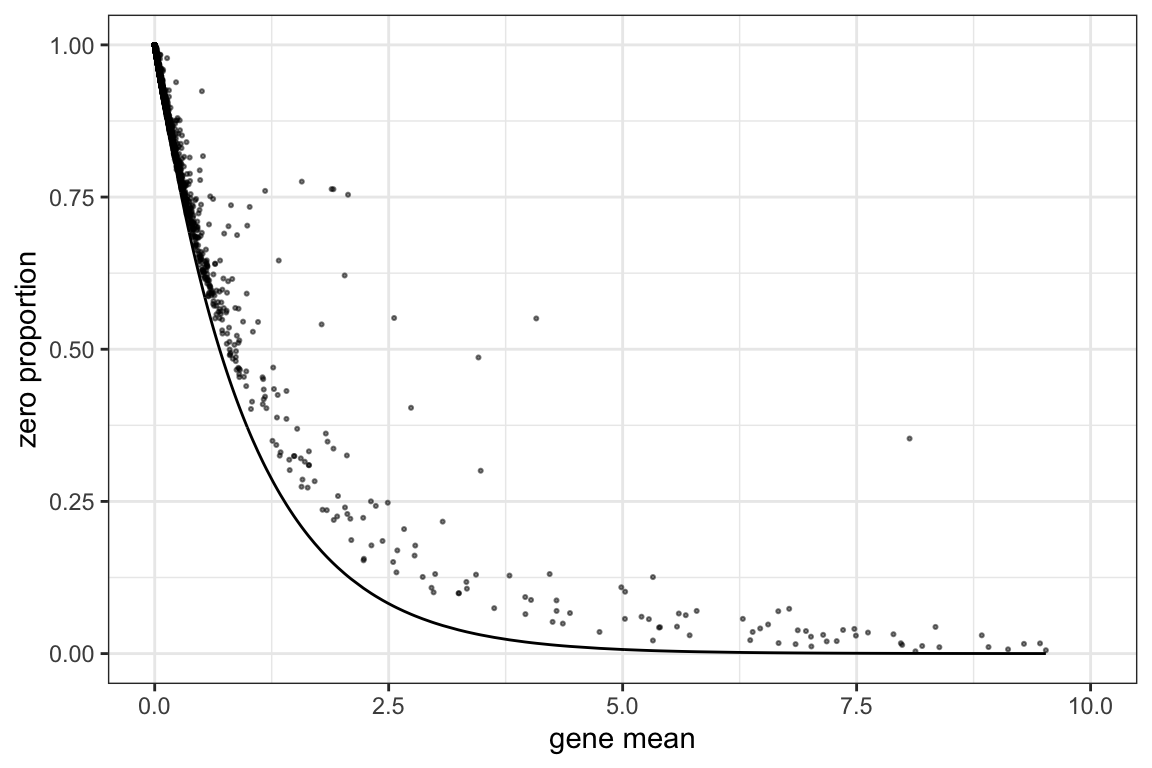
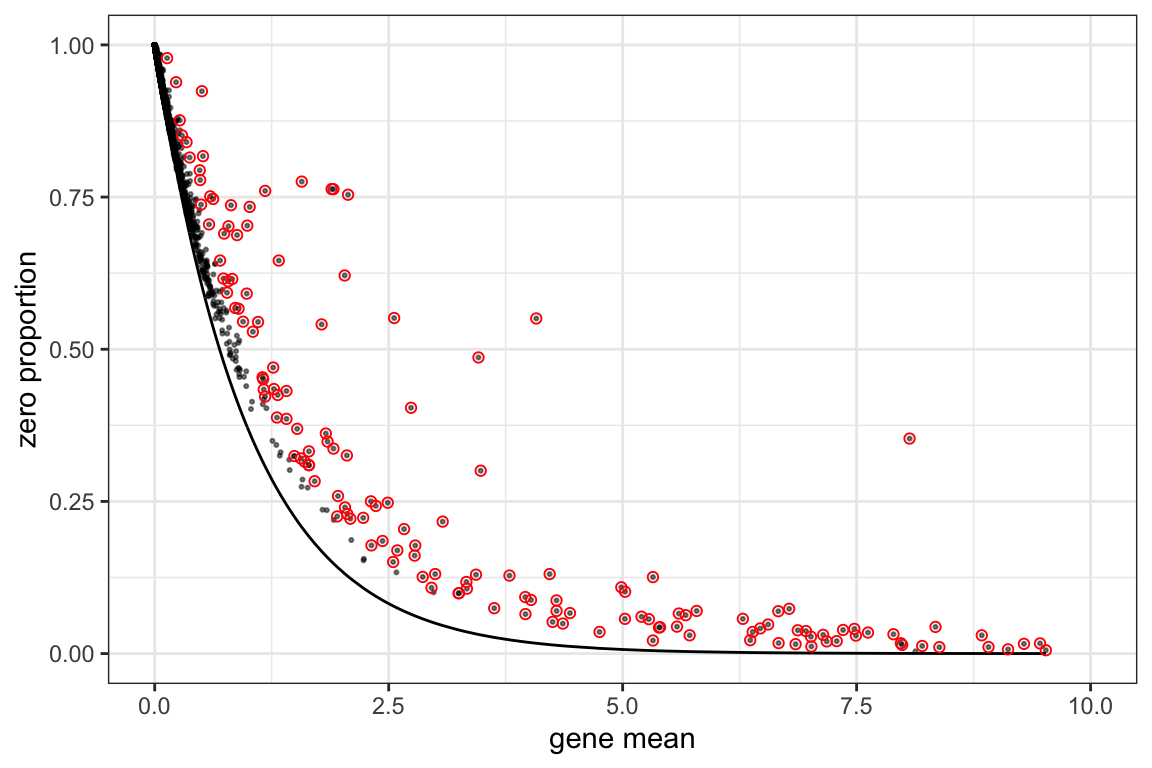
Build site.

diff --git a/docs/example.html b/docs/example.html
@@ -327,7 +327,7 @@ div.section {
 <div class="tab-content">
 <div id="summary" class="tab-pane fade in active">
 <p>
-<strong>Last updated:</strong> 2020-01-22
+<strong>Last updated:</strong> 2020-01-23
 </p>
 <p>
 <strong>Checks:</strong> <span class="glyphicon glyphicon-ok text-success" aria-hidden="true"></span> 7 <span class="glyphicon glyphicon-exclamation-sign text-danger" aria-hidden="true"></span> 0
@@ -418,10 +418,10 @@ This reproducible <a href="http://rmarkdown.rstudio.com">R Markdown</a> analysis
 <div class="panel panel-default">
 <div class="panel-heading">
 <p class="panel-title">
-<a data-toggle="collapse" data-parent="#workflowr-checks" href="#strongRepositoryversionstrongahrefhttpsgithubcomtk382HIPPOtree3531e4b053947044296239ba485475125898c919targetblank3531e4ba"> <span class="glyphicon glyphicon-ok text-success" aria-hidden="true"></span> <strong>Repository version:</strong> <a href="https://github.com/tk382/HIPPO/tree/3531e4b053947044296239ba485475125898c919" target="_blank">3531e4b</a> </a>
+<a data-toggle="collapse" data-parent="#workflowr-checks" href="#strongRepositoryversionstrongahrefhttpsgithubcomtk382HIPPOtree47c6a6c91cfdf48d19364867279b1a596767334btargetblank47c6a6ca"> <span class="glyphicon glyphicon-ok text-success" aria-hidden="true"></span> <strong>Repository version:</strong> <a href="https://github.com/tk382/HIPPO/tree/47c6a6c91cfdf48d19364867279b1a596767334b" target="_blank">47c6a6c</a> </a>
 </p>
 </div>
[2 lines of base64/hex data omitted]
 <div class="panel-body">
 <p>
 Great! You are using Git for version control. Tracking code development and connecting the code version to the results is critical for reproducibility. The version displayed above was the version of the Git repository at the time these results were generated. <br><br> Note that you need to be careful to ensure that all relevant files for the analysis have been committed to Git prior to generating the results (you can use <code>wflow_publish</code> or <code>wflow_git_commit</code>). workflowr only checks the R Markdown file, but you know if there are other scripts or data files that it depends on. Below is the status of the Git repository when the results were generated:
@@ -437,7 +437,10 @@ Untracked files:
     Untracked:  sce_full_Zhengmix4eq.rds
 
 Unstaged changes:
-    Modified:   R/hippo.R
+    Modified:   analysis/example2.Rmd
+    Deleted:    analysis/figure/example.Rmd/unnamed-chunk-3-1.png
+    Deleted:    analysis/figure/example.Rmd/unnamed-chunk-5-1.png
+    Deleted:    analysis/figure/example.Rmd/unnamed-chunk-6-1.png
 
 </code></pre>
 <p>
@@ -476,6 +479,40 @@ Message
 </tr>
 </thead>
 <tbody>
+<tr>
+<td>
+Rmd
+</td>
+<td>
+<a href="https://github.com/tk382/HIPPO/blob/47c6a6c91cfdf48d19364867279b1a596767334b/analysis/example.Rmd" target="_blank">47c6a6c</a>
+</td>
+<td>
+tk382
+</td>
+<td>
+2020-01-23
+</td>
+<td>
+workflowr::wflow_publish(“analysis/example.Rmd”)
+</td>
+</tr>
+<tr>
+<td>
+html
+</td>
+<td>
+<a href="https://rawcdn.githack.com/tk382/HIPPO/323564eacc07aeb843cb260da31fc240330fd63c/docs/example.html" target="_blank">323564e</a>
+</td>
+<td>
+tk382
+</td>
+<td>
+2020-01-22
+</td>
+<td>
+Build site.
+</td>
+</tr>
 <tr>
 <td>
 html
@@ -647,7 +684,7 @@ add workflow analysis files
 <div id="diagnostic-plot" class="section level2">
 <h2>Diagnostic Plot</h2>
 <p>This plot shows the zero inflation compared to the expected Poisson line. If most genes don’t align with the black line, it shows that there is cell heterogeneity driving the zero inflation.</p>
-<pre class="r"><code>hippo_diagnostic_plot(sce)</code></pre>
+<pre class="r"><code>hippo_diagnostic_plot(sce, show_outliers = TRUE, zvalue_thresh = 15)</code></pre>
 <p><img src="figure/example.Rmd/unnamed-chunk-3-1.png" width="576" style="display: block; margin: auto;" /></p>
 <p>
 <button type="button" class="btn btn-default btn-xs btn-workflowr btn-workflowr-fig" data-toggle="collapse" data-target="#fig-unnamed-chunk-3-1">
@@ -843,8 +880,60 @@ tk382
 </div>
 <div id="visualize-the-selected-features-at-each-round" class="section level2">
 <h2>Visualize the selected features at each round</h2>
-<p>This shows the UMAP and t-SNE plot of each round of clustering.</p>
-<pre class="r"><code>zero_proportion_plot(sce)</code></pre>
+<p>This function shows how the zero-inflation decreases as HIPPO proceeds in the clustering. This function has arguments called switch_to_hgnc and ref. These aim to provide the users an option to change the gene names from ENSG IDs to HGNC symbols for ease of understanding. Many SingleCellExperiment objects have such data embedded in rowData(sce). Users can create a data frame with ensg and hgnc columns for the genes, and HIPPO will automatically switch the row names of the count matrix from ENSG IDs to HGNC symbols. The default is set to FALSE, assuming that the row names are already HGNC symbols.</p>
+<pre class="r"><code>ref = data.frame(hgnc = rowData(sce)$symbol,
+                 ensg = rowData(sce)$id)
+head(ref)</code></pre>
+<pre><code>           hgnc            ensg
+1    AL627309.1 ENSG00000237683
+2 RP11-206L10.2 ENSG00000228327
+3 RP11-206L10.9 ENSG00000237491
+4     LINC00115 ENSG00000225880
+5        FAM41C ENSG00000230368
+6        SAMD11 ENSG00000187634</code></pre>
+<pre class="r"><code>zero_proportion_plot(sce, switch_to_hgnc = TRUE, ref = ref)</code></pre>
+<pre><code>                 gene gene_mean  gene_var zero_proportion celltype samplesize
+237   ENSG00000142676  9.936378 50.375827     0.009748589        2       1949
+278   ENSG00000169442  2.243202  8.651295     0.387891226        2       1949
+476   ENSG00000142937  6.837866 28.607169     0.031298102        2       1949
+658   ENSG00000122406  3.364802 13.178452     0.250897896        2       1949
+918   ENSG00000163220  4.158030 36.833330     0.524884556        2       1949
+2371  ENSG00000142676  9.936378 50.375827     0.009748589        2       1949
+2781  ENSG00000169442  2.243202  8.651295     0.387891226        2       1949
+4761  ENSG00000142937  6.837866 28.607169     0.031298102        2       1949
+6581  ENSG00000122406  3.364802 13.178452     0.250897896        2       1949
+9181  ENSG00000163220  4.158030 36.833330     0.524884556        2       1949
+2372  ENSG00000142676  9.936378 50.375827     0.009748589        2       1949
+2782  ENSG00000169442  2.243202  8.651295     0.387891226        2       1949
+4762  ENSG00000142937  6.837866 28.607169     0.031298102        2       1949
+6582  ENSG00000122406  3.364802 13.178452     0.250897896        2       1949
+9182  ENSG00000163220  4.158030 36.833330     0.524884556        2       1949
+11821 ENSG00000254709  1.759960 83.169641     0.731075697        2       1004
+29517 ENSG00000147604  5.527309 19.331013     0.081429990        1       1007
+33131 ENSG00000008517  3.913605 16.186365     0.198609732        1       1007
+37044 ENSG00000163220  8.566138 38.199276     0.022222222        5        945
+37046 ENSG00000143546  7.973545 38.059681     0.043386243        5        945
+       expected_pi           se minus_logp  zvalue selected_feature K   hgnc
+237   4.839466e-05 0.0001576237        500 31.4843             TRUE 2  RPL11
+278   1.061454e-01 0.0069793904        500 31.4843             TRUE 2   CD52
+476   1.072665e-03 0.0007417071        500 31.4843             TRUE 2   RPS8
+658   3.457771e-02 0.0041399033        500 31.4843             TRUE 2   RPL5
+918   1.564235e-02 0.0028116475        500 31.4843             TRUE 2 S100A9
+2371  4.839466e-05 0.0001576237        500 31.4843             TRUE 3  RPL11
+2781  1.061454e-01 0.0069793904        500 31.4843             TRUE 3   CD52
+4761  1.072665e-03 0.0007417071        500 31.4843             TRUE 3   RPS8
+6581  3.457771e-02 0.0041399033        500 31.4843             TRUE 3   RPL5
+9181  1.564235e-02 0.0028116475        500 31.4843             TRUE 3 S100A9
+2372  4.839466e-05 0.0001576237        500 31.4843             TRUE 4  RPL11
+2782  1.061454e-01 0.0069793904        500 31.4843             TRUE 4   CD52
+4762  1.072665e-03 0.0007417071        500 31.4843             TRUE 4   RPS8
+6582  3.457771e-02 0.0041399033        500 31.4843             TRUE 4   RPL5
+9182  1.564235e-02 0.0028116475        500 31.4843            FALSE 4 S100A9
+11821 1.721374e-01 0.0119212133        500 31.4843            FALSE 5  IGLL5
+29517 3.978652e-03 0.0019849853        500 31.4843             TRUE 5   RPL7
+33131 1.997831e-02 0.0044121695        500 31.4843             TRUE 5   IL32
+37044 1.905476e-04 0.0004492953        500 31.4843            FALSE 5 S100A9
+37046 3.446381e-04 0.0006041966        500 31.4843            FALSE 5 S100A8</code></pre>
 <p><img src="figure/example.Rmd/unnamed-chunk-7-1.png" width="576" style="display: block; margin: auto;" /></p>
 <p>
 <button type="button" class="btn btn-default btn-xs btn-workflowr btn-workflowr-fig" data-toggle="collapse" data-target="#fig-unnamed-chunk-7-1">
@@ -969,18 +1058,7 @@ tk382
 <div id="differential-expression-example" class="section level2">
 <h2>Differential Expression Example</h2>
 <p>We also offer a differential expression analysis tool.</p>
-<p>diffexp has arguments called switch_to_hgnc and ref. These aim to provide the users an option to change the gene names from ENSG IDs to HGNC symbols for ease of understanding. Many SingleCellExperiment objects have such data embedded in rowData(sce). Users can create a data frame with ensg and hgnc columns for the genes, and HIPPO will automatically switch the row names of the count matrix from ENSG IDs to HGNC symbols. The default is set to FALSE, assuming that the row names are already HGNC symbols.</p>
-<p>top.n argument lets users choose how many top genes to show in the box plot. The default is 5.</p>
-<pre class="r"><code>ref = data.frame(hgnc = rowData(sce)$symbol,
-                 ensg = rowData(sce)$id)
-head(ref)</code></pre>
-<pre><code>           hgnc            ensg
-1    AL627309.1 ENSG00000237683
-2 RP11-206L10.2 ENSG00000228327
-3 RP11-206L10.9 ENSG00000237491
-4     LINC00115 ENSG00000225880
-5        FAM41C ENSG00000230368
-6        SAMD11 ENSG00000187634</code></pre>
+<p>This function also has an option to switch the gene names to HGNC symbols. top.n argument lets users choose how many top genes to show in the box plot. The default is 5.</p>
 <pre class="r"><code>sce = diffexp(sce, top.n = 5, switch_to_hgnc = TRUE, ref = ref)</code></pre>
 <p><img src="figure/example.Rmd/unnamed-chunk-8-1.png" width="576" style="display: block; margin: auto;" /></p>
 <p>
@@ -1103,26 +1181,26 @@ other attached packages:
 [11] BiocGenerics_0.32.0         HIPPO_0.1.0                
 
 loaded via a namespace (and not attached):
- [1] Rcpp_1.0.2             lattice_0.20-38        assertthat_0.2.1      
- [4] rprojroot_1.3-2        digest_0.6.21          RSpectra_0.15-0       
- [7] R6_2.4.0               plyr_1.8.4             backports_1.1.5       
-[10] evaluate_0.14          ggplot2_3.2.1          pillar_1.4.2          
-[13] zlibbioc_1.32.0        rlang_0.4.1            lazyeval_0.2.2        
-[16] irlba_2.3.3            whisker_0.4            Matrix_1.2-17         
-[19] reticulate_1.13        rmarkdown_2.0          labeling_0.3          
-[22] Rtsne_0.15             stringr_1.4.0          RCurl_1.95-4.12       
-[25] munsell_0.5.0          umap_0.2.3.1           compiler_3.6.1        
-[28] httpuv_1.5.2           xfun_0.11              pkgconfig_2.0.3       
-[31] askpass_1.1            htmltools_0.4.0        openssl_1.4.1         
-[34] tidyselect_0.2.5       tibble_2.1.3           gridExtra_2.3         
-[37] GenomeInfoDbData_1.2.2 workflowr_1.5.0        crayon_1.3.4          
-[40] dplyr_0.8.3            later_1.0.0            bitops_1.0-6          
-[43] grid_3.6.1             jsonlite_1.6           gtable_0.3.0          
-[46] git2r_0.26.1           magrittr_1.5           scales_1.0.0          
-[49] stringi_1.4.3          XVector_0.26.0         reshape2_1.4.3        
-[52] fs_1.3.1               promises_1.1.0         tools_3.6.1           
-[55] glue_1.3.1             purrr_0.3.3            yaml_2.2.0            
-[58] colorspace_1.4-1       knitr_1.26            </code></pre>
+ [1] ggrepel_0.8.1          Rcpp_1.0.2             lattice_0.20-38       
+ [4] assertthat_0.2.1       rprojroot_1.3-2        digest_0.6.21         
+ [7] RSpectra_0.15-0        R6_2.4.0               plyr_1.8.4            
+[10] backports_1.1.5        evaluate_0.14          ggplot2_3.2.1         
+[13] pillar_1.4.2           zlibbioc_1.32.0        rlang_0.4.1           
+[16] lazyeval_0.2.2         irlba_2.3.3            whisker_0.4           
+[19] Matrix_1.2-17          reticulate_1.13        rmarkdown_2.0         
+[22] labeling_0.3           Rtsne_0.15             stringr_1.4.0         
+[25] RCurl_1.95-4.12        munsell_0.5.0          umap_0.2.3.1          
+[28] compiler_3.6.1         httpuv_1.5.2           xfun_0.11             
+[31] pkgconfig_2.0.3        askpass_1.1            htmltools_0.4.0       
+[34] openssl_1.4.1          tidyselect_0.2.5       tibble_2.1.3          
+[37] gridExtra_2.3          GenomeInfoDbData_1.2.2 workflowr_1.5.0       
+[40] crayon_1.3.4           dplyr_0.8.3            later_1.0.0           
+[43] bitops_1.0-6           grid_3.6.1             jsonlite_1.6          
+[46] gtable_0.3.0           git2r_0.26.1           magrittr_1.5          
+[49] scales_1.0.0           stringi_1.4.3          XVector_0.26.0        
+[52] reshape2_1.4.3         fs_1.3.1               promises_1.1.0        
+[55] tools_3.6.1            glue_1.3.1             purrr_0.3.3           
+[58] yaml_2.2.0             colorspace_1.4-1       knitr_1.26            </code></pre>
 </div>
 </div>
 
